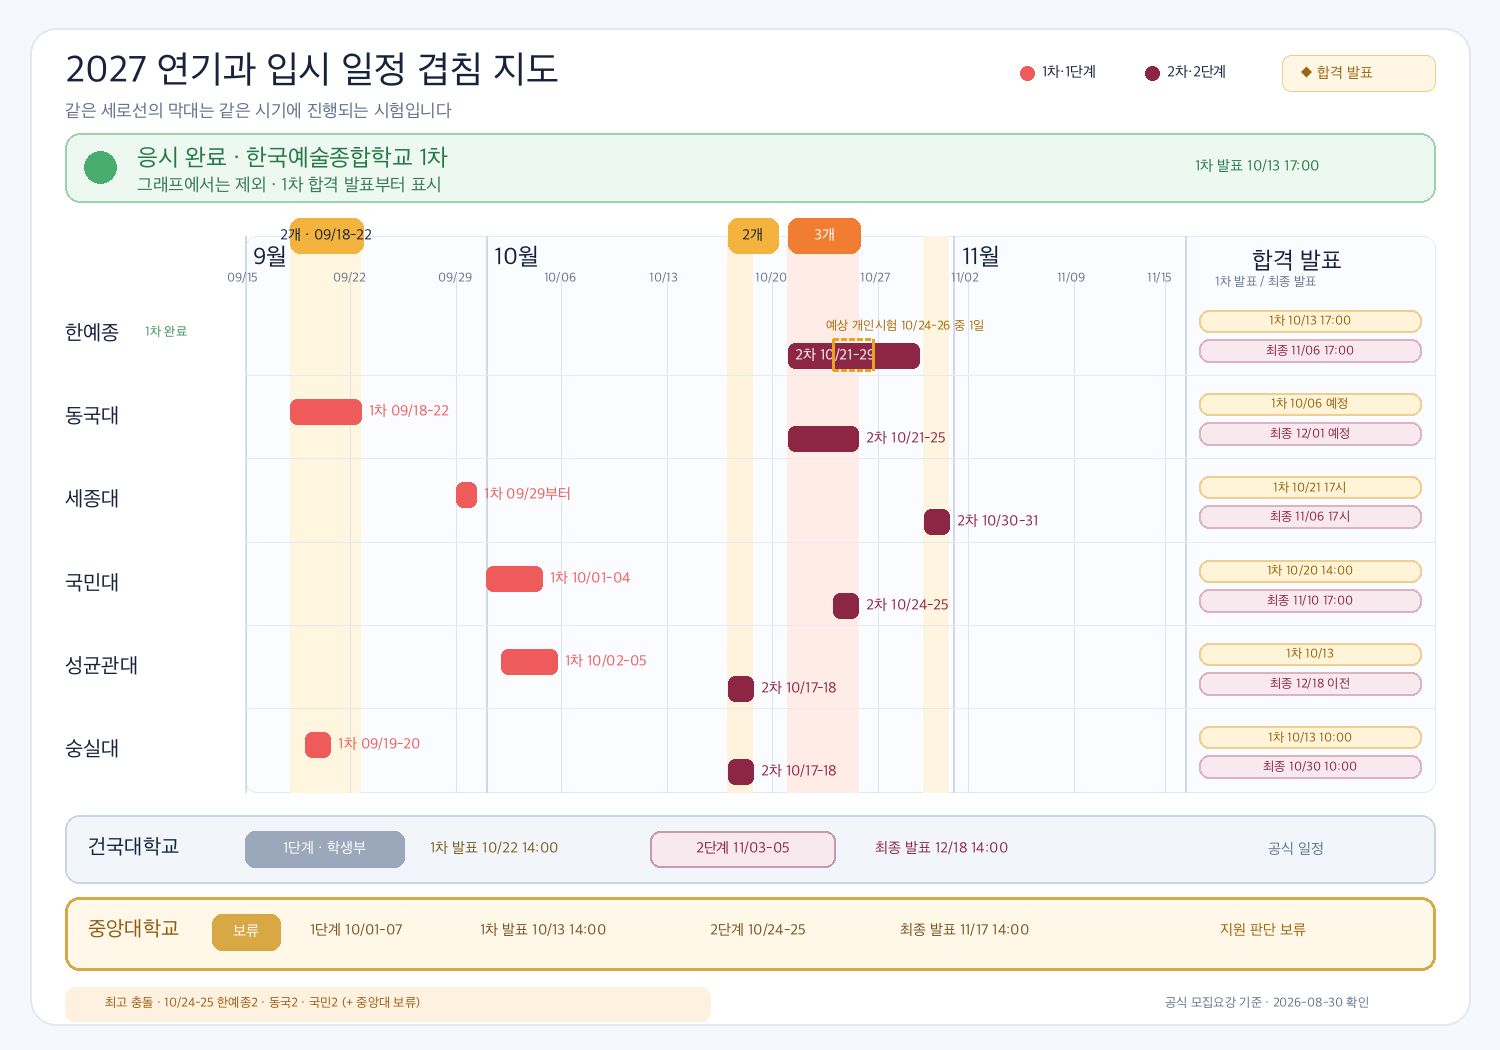
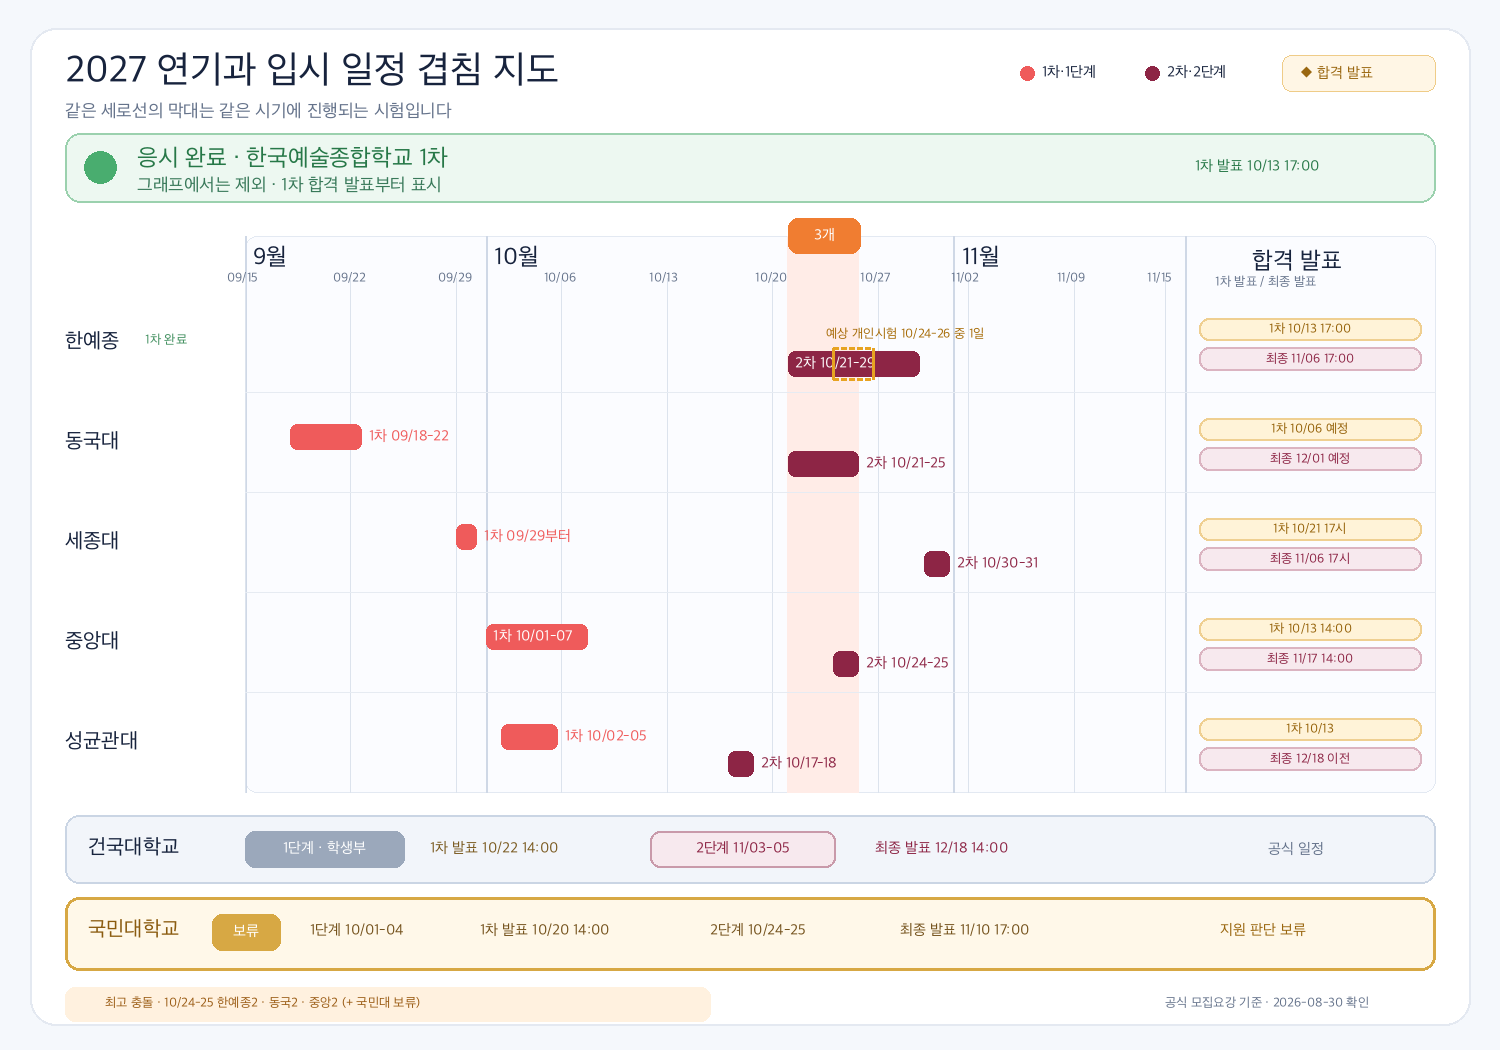
vault backup: 2026-08-30 22:26:54

diff --git a/정리/입시/2027 연기과 시험 일정 그래프.md b/정리/입시/2027 연기과 시험 일정 그래프.md
@@ -1,7 +1,7 @@
 ---
 type: dashboard
 admission_year: 2027
-scope: 연기과 입시 7개교 + 중앙대 보류 (가천대·서울예대·인천대 제외)
+scope: 연기과 입시 6개교 + 국민대 보류 (가천대·서울예대·인천대·숭실대 제외)
 verified: 2026-08-30
 status: 공식 모집요강 기준, 개인 고사시간·정정 공지 재확인 필요
 tags: [입시/연기, 입시/일정, 2027학년도]
@@ -11,14 +11,19 @@ tags: [입시/연기, 입시/일정, 2027학년도]
 
 [[의상 및 헤어 등 이미지|← 입시 이미지 총괄 대시보드]] · [[2027 연기과 지정작품 총정리|지정작품 한눈에 보기]] · [[2027 연기과 학교별 내신 환산 및 5등급 비교|학교별 내신 영향 비교]] · [[2027 연기과 학교별 1·2차 실기 종목 정리|1·2차 실기 종목]]
 
-![[Pasted image 20260830205004.png]]
+> [!note] 그래프 기준
+> 가천대학교, 서울예술대학교, 인천대학교, 숭실대학교는 제외했다. 한국예술종합학교 1차는 응시 완료 상태이므로 시험 막대에서 제외하고 합격 발표부터 표시했다. 중앙대학교는 **확정**, 국민대학교는 지원 판단 **보류** 상태로 맨 아래에 분리했다.
 
-#### 인천대학교 포함
-![[Pasted image 20260830211710.png]]
+![[2027 연기과 이미지/첨부/2027 연기과 시험 일정-겹침지도.png|1000]]
 
 ## 전체 타임라인
 
-> **빨강: 1차·1단계** · **자주: 2차·2단계** 
+> **빨강: 1차·1단계** · **자주: 2차·2단계**
+> 
+> 한국예술종합학교 : 접수순
+> 국민대학교 : 접수순
+> 동국대학교 : 선택
+> 성균고나대학교 : 랜덤
 
 ```mermaid
 %%{init: {"theme":"base","themeVariables":{"taskBkgColor":"#E45757","taskBorderColor":"#B63A3A","doneTaskBkgColor":"#7B263D","doneTaskBorderColor":"#541729","doneTaskTextColor":"#FFFFFF"}}}%%
@@ -29,27 +34,25 @@ gantt
 
     section 1단계·1차
     동국 1단계                    :crit, dongguk1, 2026-09-18, 2026-09-23
-    숭실 1단계                    :crit, ssu1, 2026-09-19, 2026-09-21
     세종 1단계 시작               :crit, sejong1, 2026-09-29, 1d
-    국민 1단계                    :crit, kookmin1, 2026-10-01, 2026-10-05
+    중앙 1단계                    :crit, cau1, 2026-10-01, 2026-10-08
     성균관 1단계                  :crit, skku1, 2026-10-02, 2026-10-06
 
     section 2단계·2차
     성균관 2단계                  :done, skku2, 2026-10-17, 2026-10-19
-    숭실 2단계                    :done, ssu2, 2026-10-17, 2026-10-19
     한예종 2차                    :done, karts2, 2026-10-21, 2026-10-30
     동국 2단계                    :done, dongguk2, 2026-10-21, 2026-10-26
-    국민 2단계                    :done, kookmin2, 2026-10-24, 2026-10-26
+    중앙 2단계                    :done, cau2, 2026-10-24, 2026-10-26
     세종 2단계                    :done, sejong2, 2026-10-30, 2026-11-01
     건국 2단계                    :done, konkuk2, 2026-11-03, 2026-11-06
 
-    section 중앙대 · 보류
-    중앙대 1단계                  :crit, cau1, 2026-10-01, 2026-10-08
-    중앙대 2단계                  :done, cau2, 2026-10-24, 2026-10-26
+    section 국민대 · 보류
+    국민대 1단계                  :crit, kookmin1, 2026-10-01, 2026-10-05
+    국민대 2단계                  :done, kookmin2, 2026-10-24, 2026-10-26
 ```
 
 > [!danger] 가장 붐비는 구간: 10월 21일~25일
-> 10월 21~23일은 한예종 2차와 동국대 2단계가 겹친다. 24~25일에는 국민대 2단계까지 더해져 세 학교가 동시에 진행된다. 중앙대 보류 일정까지 포함하면 24~25일은 네 학교가 겹친다.
+> 10월 21~23일은 한예종 2차와 동국대 2단계가 겹친다. 24~25일에는 중앙대 2단계까지 더해져 확정 학교 세 곳이 동시에 진행된다. 국민대 보류 일정까지 포함하면 24~25일은 네 학교가 겹친다.
 
 ## 학교별 일정·합격자 발표표
 
@@ -58,11 +61,19 @@ gantt
 | 응시 완료 | 한예종 | 그래프에서 제외 | **2026-10-13 17:00** | **2026-10-21~10-29** · 예상 개인 시험일 **10/24~26 중 1일** | **2026-11-06 17:00** |
 | 확정 | 동국대 | 2026-09-18~09-22 | **2026-10-06 예정** | 2026-10-21~10-25 | **2026-12-01 예정** |
 | 확정 | 세종대 | 2026-09-29부터 | **2026-10-21 17시 이후** | 2026-10-30~10-31 | **2026-11-06 17시 이후** |
-| 확정 | 국민대 | 2026-10-01~10-04 | **2026-10-20 14:00** | 2026-10-24~10-25 | **2026-11-10 17:00** |
+| 확정 | 중앙대 | 2026-10-01~10-07 | **2026-10-13 14:00** | 2026-10-24~10-25 | **2026-11-17 14:00** |
 | 확정 | 성균관대 | 2026-10-02~10-05 | **2026-10-13** | 2026-10-17~10-18 | **2026-12-18 이전** |
 | 확정 | 건국대 | 학생부 1단계 | **2026-10-22 14:00 예정** | **2026-11-03~11-05** | **2026-12-18 14:00 예정** |
-| 확정 | 숭실대 | 2026-09-19~09-20 | **2026-10-13 10:00** | 2026-10-17~10-18 | **2026-10-30 10:00** |
-| **보류** | **중앙대** | **2026-10-01~10-07** | **2026-10-13 14:00** | **2026-10-24~10-25** | **2026-11-17 14:00** |
+| **보류** | **국민대** | **2026-10-01~10-04** | **2026-10-20 14:00** | **2026-10-24~10-25** | **2026-11-10 17:00** |
+
+> **합격자 발표 기준:** 날짜와 시각은 각 대학 2027학년도 공식 모집요강의 전형 일정표를 옮겼다. 모집요강이 ‘예정’ 또는 ‘이전’이라고 표시한 경우 그 표현도 그대로 유지했다. 성균관대 최종 발표는 공식 요강에 특정 날짜가 아니라 **2026-12-18 이전**으로만 안내되어 있어 임의로 하루를 정하지 않았다.
+
+## 일정 해석 메모
+
+- **한예종:** 1차 시험은 이미 응시했으므로 그래프에서 제외했다. 2차 종료일은 기존 10월 30일이 아니라 공식 모집요강상 **10월 29일**이다. 개인 시험일은 현재 **10월 24~26일 중 하루로 예상**되어 그래프에 노란 점선으로 표시했다. 이 날짜는 공식 배정 전 예상치다.
+- **세종대:** 1단계 합격 발표일을 기존 10월 8일에서 공식 일정인 **10월 21일 17시 이후**로 바로잡았다. 1단계 시험 종료일과 개인별 고사일은 수험생 유의사항에서 확인한다.
+- **지원 상태:** 중앙대는 확정 학교로 본 그래프에 포함했다. 국민대는 일정 자체는 공식 확정이지만 사용자의 지원 판단 상태가 보류이므로, 표의 마지막 행과 이미지 최하단에 따로 표시했다.
+- **개인 고사시간:** 학교가 고사 기간만 공지한 경우 실제 응시일·입실시간은 수험표 또는 추후 고사장 공지를 우선한다.
 
 ## 공식 출처
 
@@ -72,5 +83,4 @@ gantt
 - [국민대학교 2027학년도 수시모집요강 PDF](https://admission.kookmin.ac.kr/datafiles/contents/%EA%B5%AD%EB%AF%BC%EB%8C%80%ED%95%99%EA%B5%90_2027%ED%95%99%EB%85%84%EB%8F%84_%EC%88%98%EC%8B%9C_%EB%AA%A8%EC%A7%91%EC%9A%94%EA%B0%95%282026.06.22%29.pdf)
 - [성균관대학교 2027학년도 수시모집요강](https://admission.skku.edu/upload/guide/20260529115520H43SMR.pdf)
 - [건국대학교 2027학년도 수시모집요강](https://enter.konkuk.ac.kr/file/pdfDown.pdf?ofn=2027%ED%95%99%EB%85%84%EB%8F%84+%EA%B1%B4%EA%B5%AD%EB%8C%80%ED%95%99%EA%B5%90+%EC%84%9C%EC%9A%B8%EC%BA%A0%ED%8D%BC%EC%8A%A4+%EC%88%98%EC%8B%9C%EB%AA%A8%EC%A7%91%EC%9A%94%EA%B0%95%28%EB%8B%A8%EB%A9%B4%29_20260513.pdf&sfn=20260526035352665_9631.pdf)
-- [숭실대학교 2027학년도 수시 모집요강](https://admission.ssu.ac.kr/mojip/req.asp?flag=1&page_no=1_2_2)
 - [중앙대학교 2027학년도 수시모집요강](https://admission.cau.ac.kr/file/pdfDown.pdf?ofn=%EC%A4%91%EC%95%99%EB%8C%80%ED%95%99%EA%B5%90_2027%ED%95%99%EB%85%84%EB%8F%84+%EC%88%98%EC%8B%9C%EB%AA%A8%EC%A7%91%EC%9A%94%EA%B0%95%28%EB%8B%A8%EB%A9%B4%29_%EA%B3%B5%EA%B3%A0%EC%9A%A9.pdf&sfn=20260609111455769_c6144e06ef38475d8ce9563f87b7f3b4.pdf)
